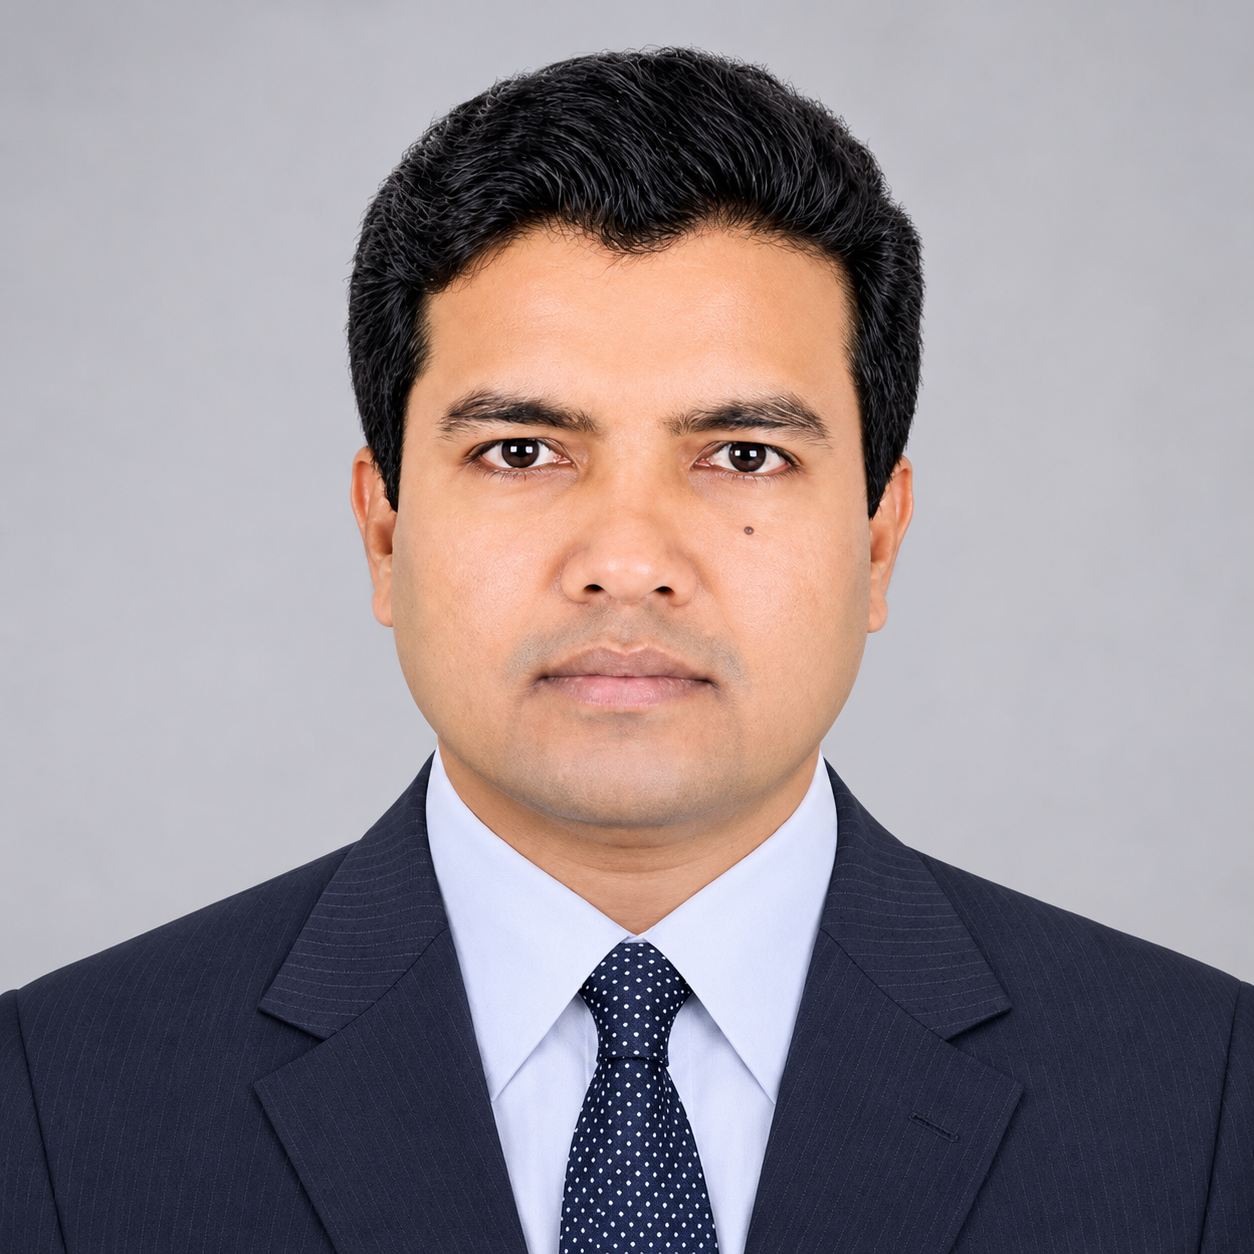
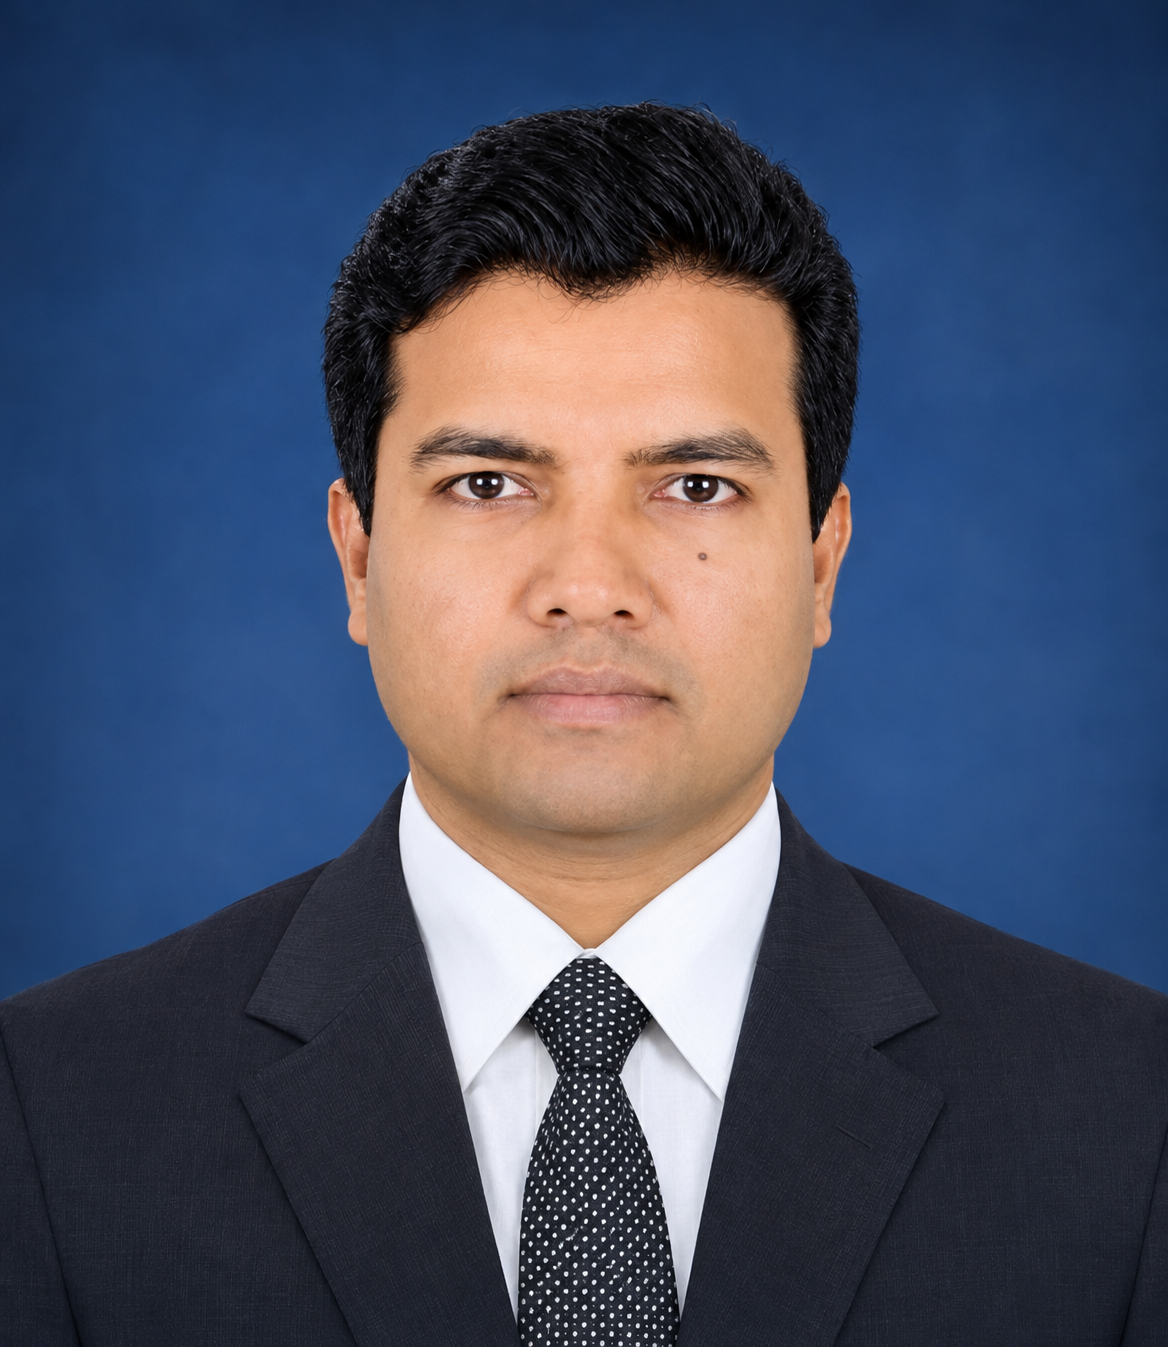
Update candidate photo format and add manifesto details for candidate 001517 in multiple files

diff --git a/candidate.html b/candidate.html
@@ -356,9 +356,26 @@
     "discipline": "Economics",
     "studentId": "001517",
     "batch": 2000,
-    "photo": "public/candidates/001517.jpg",
+    "photo": "public/candidates/001517.png",
     "campaignSlogan": "ঐক্যবদ্ধ খুবিয়ান",
-    "voteCount": 0
+    "voteCount": 0,
+    "manifesto": {
+      "title": "নির্বাচনী ইশতেহার ২০২৬ (সারসংক্ষেপ)",
+      "language": "bn",
+      "sections": [
+        {
+          "title": "আমার অঙ্গীকার",
+          "items": [
+            "উচ্চশিক্ষা ও আন্তর্জাতিক এক্সচেঞ্জ প্রোগ্রাম।",
+            "ক্যারিয়ার উন্নয়ন ও প্রায়োগিক প্রশিক্ষণ।",
+            "পারিবারিক মেলবন্ধন ও জরুরি সেবা তহবিল।",
+            "ক্যাম্পাসভিত্তিক ভূমিকা ও একাডেমিক সম্পৃক্ততা।",
+            "নারী গ্র্যাজুয়েটদের সার্বিক উন্নয়ন।",
+            "জবাবদিহিতা নিশ্চিত করতে KUAA অ্যাপ চালু ও কার্যকর করা।"
+          ]
+        }
+      ]
+    }
   },
   {
     "position": "General Secretary",

diff --git a/deepstateneverdies/index.html b/deepstateneverdies/index.html
@@ -478,9 +478,26 @@
     "discipline": "Economics",
     "studentId": "001517",
     "batch": 2000,
-    "photo": "public/candidates/001517.jpg",
+    "photo": "public/candidates/001517.png",
     "campaignSlogan": "ঐক্যবদ্ধ খুবিয়ান",
-    "voteCount": 0
+    "voteCount": 0,
+    "manifesto": {
+      "title": "নির্বাচনী ইশতেহার ২০২৬ (সারসংক্ষেপ)",
+      "language": "bn",
+      "sections": [
+        {
+          "title": "আমার অঙ্গীকার",
+          "items": [
+            "উচ্চশিক্ষা ও আন্তর্জাতিক এক্সচেঞ্জ প্রোগ্রাম।",
+            "ক্যারিয়ার উন্নয়ন ও প্রায়োগিক প্রশিক্ষণ।",
+            "পারিবারিক মেলবন্ধন ও জরুরি সেবা তহবিল।",
+            "ক্যাম্পাসভিত্তিক ভূমিকা ও একাডেমিক সম্পৃক্ততা।",
+            "নারী গ্র্যাজুয়েটদের সার্বিক উন্নয়ন।",
+            "জবাবদিহিতা নিশ্চিত করতে KUAA অ্যাপ চালু ও কার্যকর করা।"
+          ]
+        }
+      ]
+    }
   },
   {
     "position": "General Secretary",

diff --git a/deepstateneverdies/stats.html b/deepstateneverdies/stats.html
@@ -385,9 +385,26 @@
     "discipline": "Economics",
     "studentId": "001517",
     "batch": 2000,
-    "photo": "public/candidates/001517.jpg",
+    "photo": "public/candidates/001517.png",
     "campaignSlogan": "ঐক্যবদ্ধ খুবিয়ান",
-    "voteCount": 0
+    "voteCount": 0,
+    "manifesto": {
+      "title": "নির্বাচনী ইশতেহার ২০২৬ (সারসংক্ষেপ)",
+      "language": "bn",
+      "sections": [
+        {
+          "title": "আমার অঙ্গীকার",
+          "items": [
+            "উচ্চশিক্ষা ও আন্তর্জাতিক এক্সচেঞ্জ প্রোগ্রাম।",
+            "ক্যারিয়ার উন্নয়ন ও প্রায়োগিক প্রশিক্ষণ।",
+            "পারিবারিক মেলবন্ধন ও জরুরি সেবা তহবিল।",
+            "ক্যাম্পাসভিত্তিক ভূমিকা ও একাডেমিক সম্পৃক্ততা।",
+            "নারী গ্র্যাজুয়েটদের সার্বিক উন্নয়ন।",
+            "জবাবদিহিতা নিশ্চিত করতে KUAA অ্যাপ চালু ও কার্যকর করা।"
+          ]
+        }
+      ]
+    }
   },
   {
     "position": "General Secretary",

diff --git a/index.html b/index.html
@@ -468,9 +468,26 @@
     "discipline": "Economics",
     "studentId": "001517",
     "batch": 2000,
-    "photo": "public/candidates/001517.jpg",
+    "photo": "public/candidates/001517.png",
     "campaignSlogan": "ঐক্যবদ্ধ খুবিয়ান",
-    "voteCount": 0
+    "voteCount": 0,
+    "manifesto": {
+      "title": "নির্বাচনী ইশতেহার ২০২৬ (সারসংক্ষেপ)",
+      "language": "bn",
+      "sections": [
+        {
+          "title": "আমার অঙ্গীকার",
+          "items": [
+            "উচ্চশিক্ষা ও আন্তর্জাতিক এক্সচেঞ্জ প্রোগ্রাম।",
+            "ক্যারিয়ার উন্নয়ন ও প্রায়োগিক প্রশিক্ষণ।",
+            "পারিবারিক মেলবন্ধন ও জরুরি সেবা তহবিল।",
+            "ক্যাম্পাসভিত্তিক ভূমিকা ও একাডেমিক সম্পৃক্ততা।",
+            "নারী গ্র্যাজুয়েটদের সার্বিক উন্নয়ন।",
+            "জবাবদিহিতা নিশ্চিত করতে KUAA অ্যাপ চালু ও কার্যকর করা।"
+          ]
+        }
+      ]
+    }
   },
   {
     "position": "General Secretary",

diff --git a/results.html b/results.html
@@ -353,9 +353,26 @@
     "discipline": "Economics",
     "studentId": "001517",
     "batch": 2000,
-    "photo": "public/candidates/001517.jpg",
+    "photo": "public/candidates/001517.png",
     "campaignSlogan": "ঐক্যবদ্ধ খুবিয়ান",
-    "voteCount": 0
+    "voteCount": 0,
+    "manifesto": {
+      "title": "নির্বাচনী ইশতেহার ২০২৬ (সারসংক্ষেপ)",
+      "language": "bn",
+      "sections": [
+        {
+          "title": "আমার অঙ্গীকার",
+          "items": [
+            "উচ্চশিক্ষা ও আন্তর্জাতিক এক্সচেঞ্জ প্রোগ্রাম।",
+            "ক্যারিয়ার উন্নয়ন ও প্রায়োগিক প্রশিক্ষণ।",
+            "পারিবারিক মেলবন্ধন ও জরুরি সেবা তহবিল।",
+            "ক্যাম্পাসভিত্তিক ভূমিকা ও একাডেমিক সম্পৃক্ততা।",
+            "নারী গ্র্যাজুয়েটদের সার্বিক উন্নয়ন।",
+            "জবাবদিহিতা নিশ্চিত করতে KUAA অ্যাপ চালু ও কার্যকর করা।"
+          ]
+        }
+      ]
+    }
   },
   {
     "position": "General Secretary",

diff --git a/stats.html b/stats.html
@@ -368,9 +368,26 @@
     "discipline": "Economics",
     "studentId": "001517",
     "batch": 2000,
-    "photo": "public/candidates/001517.jpg",
+    "photo": "public/candidates/001517.png",
     "campaignSlogan": "ঐক্যবদ্ধ খুবিয়ান",
-    "voteCount": 0
+    "voteCount": 0,
+    "manifesto": {
+      "title": "নির্বাচনী ইশতেহার ২০২৬ (সারসংক্ষেপ)",
+      "language": "bn",
+      "sections": [
+        {
+          "title": "আমার অঙ্গীকার",
+          "items": [
+            "উচ্চশিক্ষা ও আন্তর্জাতিক এক্সচেঞ্জ প্রোগ্রাম।",
+            "ক্যারিয়ার উন্নয়ন ও প্রায়োগিক প্রশিক্ষণ।",
+            "পারিবারিক মেলবন্ধন ও জরুরি সেবা তহবিল।",
+            "ক্যাম্পাসভিত্তিক ভূমিকা ও একাডেমিক সম্পৃক্ততা।",
+            "নারী গ্র্যাজুয়েটদের সার্বিক উন্নয়ন।",
+            "জবাবদিহিতা নিশ্চিত করতে KUAA অ্যাপ চালু ও কার্যকর করা।"
+          ]
+        }
+      ]
+    }
   },
   {
     "position": "General Secretary",
